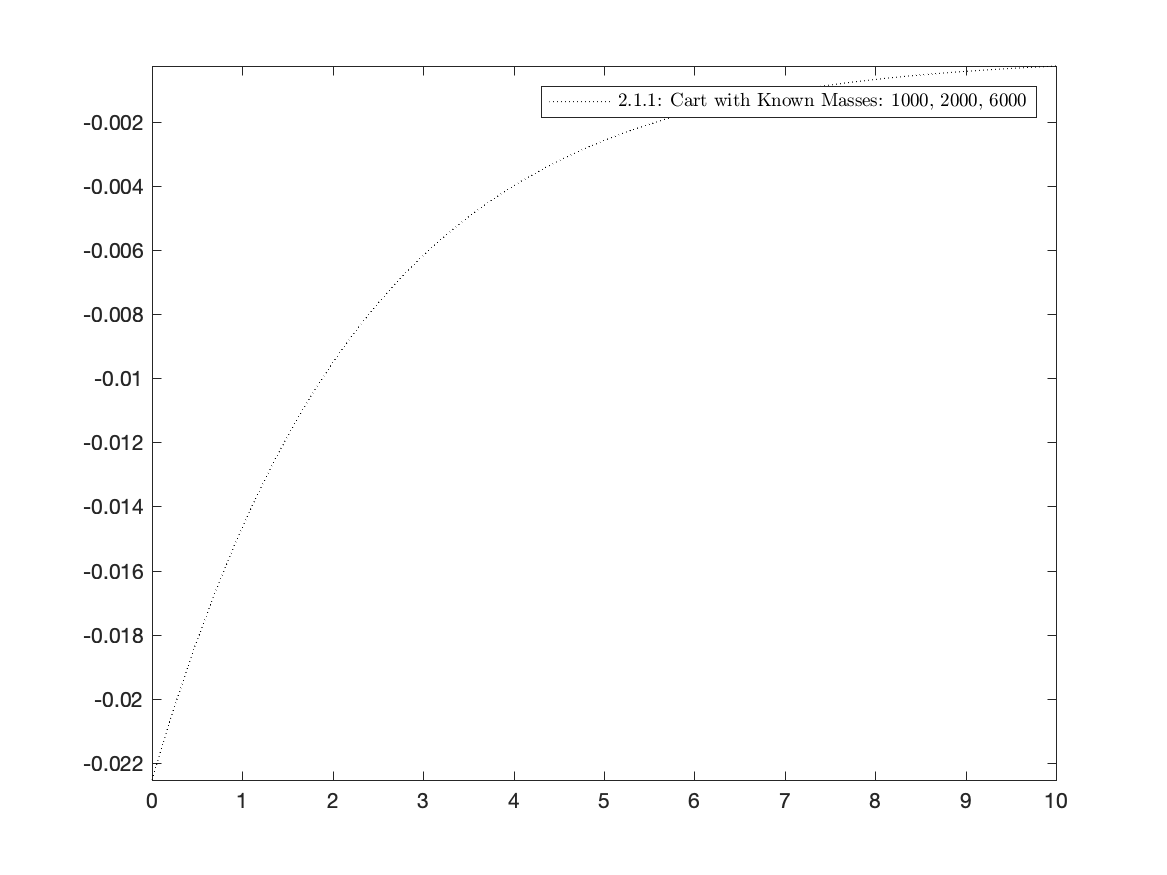
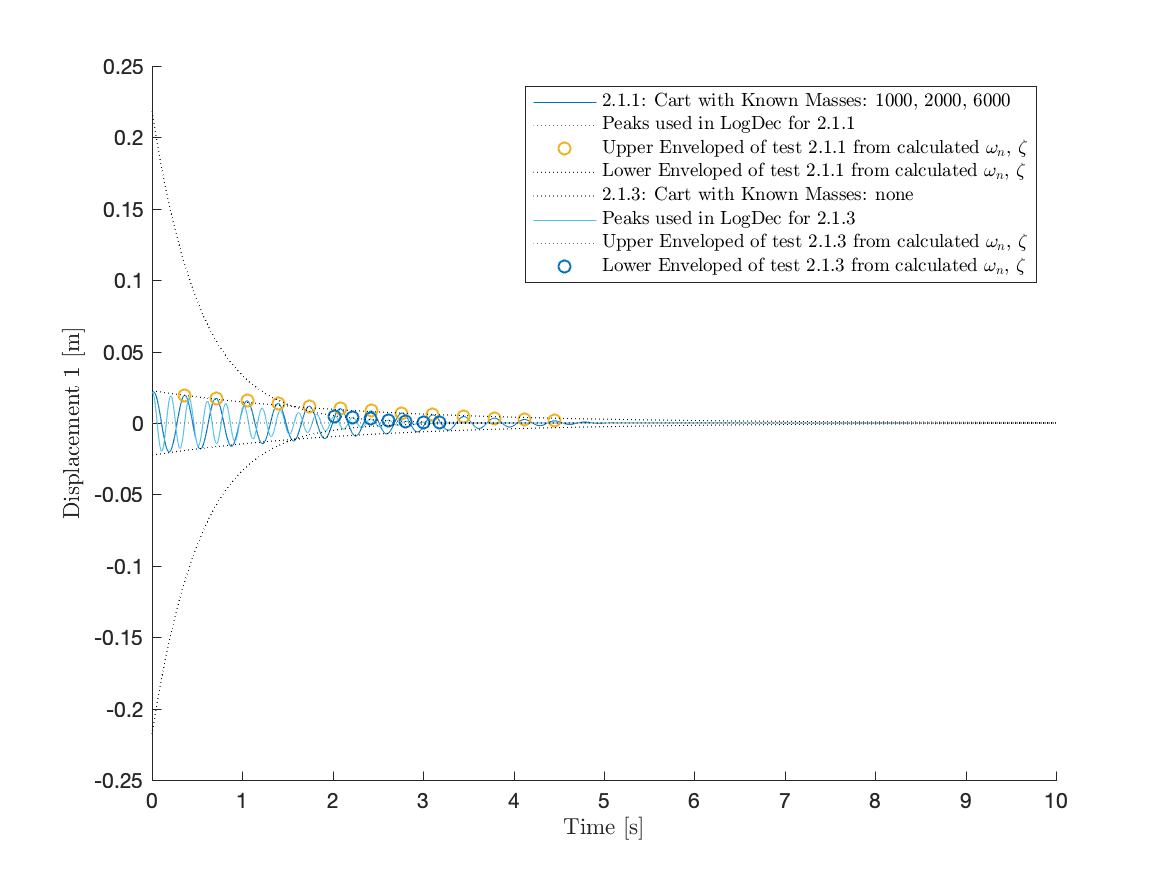
Update

diff --git a/Lab 1/multi_logdec.m b/Lab 1/multi_logdec.m
@@ -70,7 +70,7 @@ function [wn, z] = multi_logdec(root, varargin)
     peaks = {};
     yinf = zeros(n,1);
     for i = 1:n
-        [z(i), wn(i), peaks{i}, yinf(i)]  = Ts{1}.logdec('t','x1', Ts{1}.t > t_start(1));
+        [z(i), wn(i), peaks{i}, yinf(i)]  = Ts{i}.logdec('t','x1', Ts{i}.t > t_start(1));
     end
     
     %% VISUALIZE DATA TO VERIFY LOG DECREMENT PEAK SELECTION:
@@ -85,9 +85,9 @@ function [wn, z] = multi_logdec(root, varargin)
         ETable.hline(Ts{i}.x1(end), '', 'left', 'bottom');
         hold on
         % Highlight peaks used on the plot:
-        scatter(peaks{i}.X-t_start(1), peaks{i}.Y);
+        scatter(peaks{i}.X-t_start(i), peaks{i}.Y);
         % Plot Envelopes to Verify Collected z,wn:
-        envDecay = @(t) (peaks{i}.Y(1)-yinf(i))*exp(-z(i).*wn(i).*(t-peaks{i}.X(1)+t_start(1)))./sqrt(1-z(i)^2);
+        envDecay = @(t) (peaks{i}.Y(1)-yinf(i))*exp(-z(i).*wn(i).*(t-peaks{i}.X(1)+t_start(i)))./sqrt(1-z(i)^2);
         fplot(@(t)yinf(i) + envDecay(t), [0, T.t(end)], 'k:');
         fplot(@(t)yinf(i) - envDecay(t), [0, T.t(end)], 'k:');
         hold off
